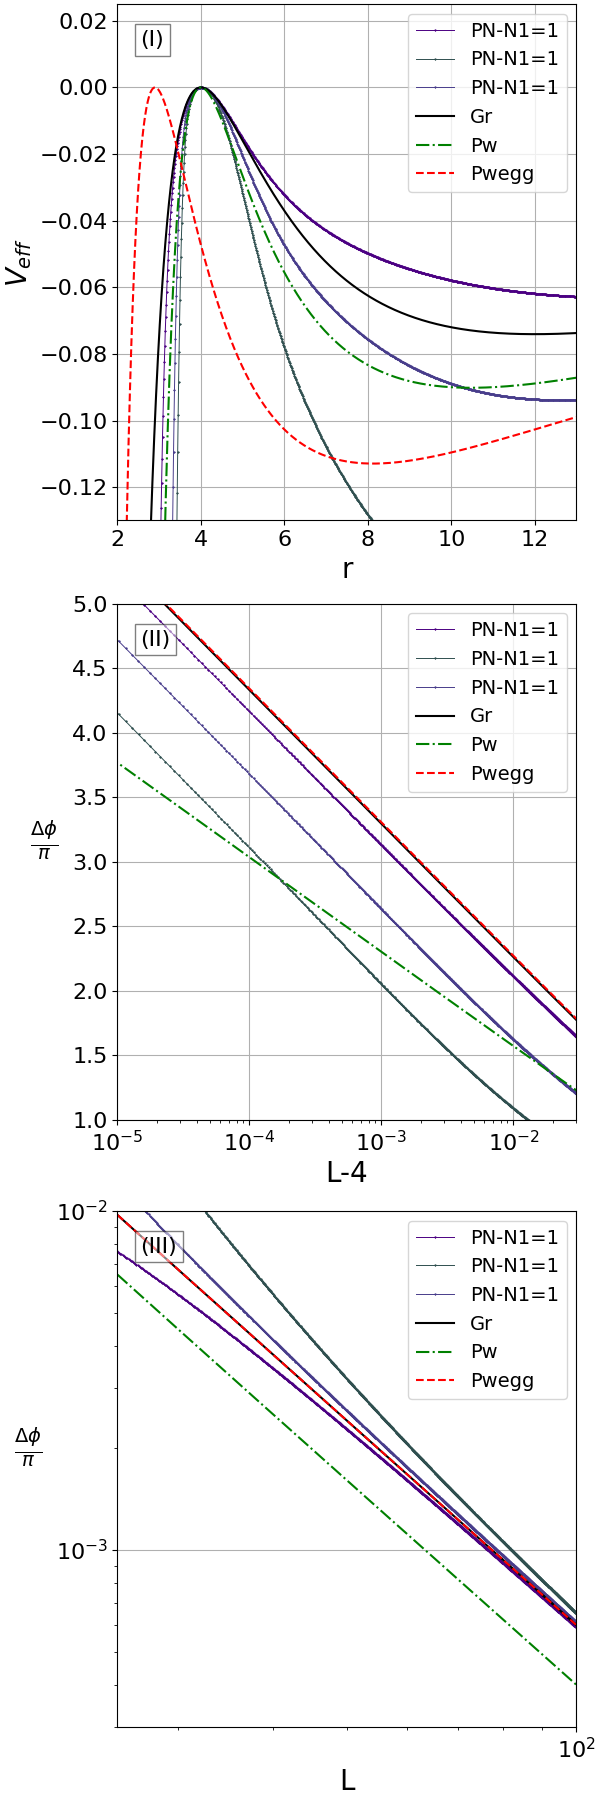
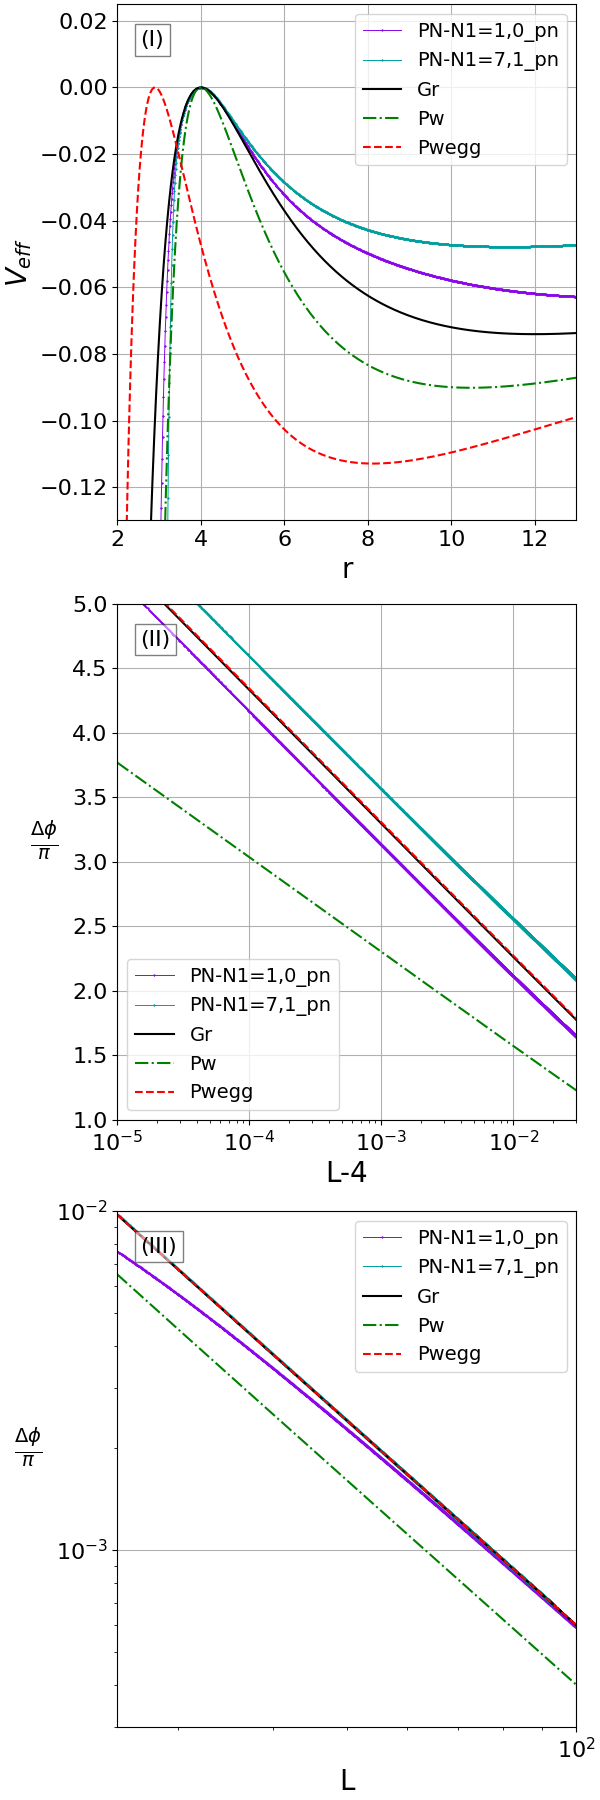
vault backup: 2025-05-25 15:54:07

diff --git a/Code/Plot_functions.py b/Code/Plot_functions.py
@@ -399,18 +399,18 @@ def final_plots(rangelist, auto=False, N1_list=[], rs_list=[], conds_list=[]):
 
 
 
-rangelist = [0.8, 5000, 7001, 7000]
+rangelist = [0.8, 5000, 7000, 7000]
 # final_plots(rangelist,auto=True,N1_list=[1,7],rs_list=[2,2],conds_list=[[0,1,2,4,5,6,7,8,12],[0,1,2,4,5,6,7,8,12]])
 # final_plots(rangelist,auto=True,N1_list=[1,1],rs_list=[2,2],conds_list=[[0,1,4,5,6,7,8,12],[0,1,2,4,5,6,7,8,12]])
-# final_plots(rangelist,auto=True,N1_list=[1,8],rs_list=[2,2],conds_list=[[0,1,4,5,6,7,8,12,13],[0,1,4,5,6,7,8,12,13]])
-final_plots(rangelist,auto=True,N1_list=[1,7],rs_list=[2,2],conds_list=[[0,1,4,5,6,7,8,12],[0,1,4,5,6,7,8,12]])
+final_plots(rangelist,auto=True,N1_list=[1,8],rs_list=[2,2],conds_list=[[0,1,2,4,5,6,7,8,12,13],[0,1,2,4,5,6,7,8,12,13]])
+# final_plots(rangelist,auto=True,N1_list=[1,7],rs_list=[2,2],conds_list=[[0,1,4,5,6,7,8,12],[0,1,4,5,6,7,8,12]])
 
 # Calculate coefficients for the specified cases
 N1_list = [1, 9]
 rs_list = [1.5, 1.5]
 conds_list = [
-    [0, 1, 4, 5, 6, 7, 8, 12, 13],
-    [0, 1, 4, 5, 6, 7, 8, 12, 13]
+    [0, 1, 2, 4, 5, 6, 7, 8, 12, 13],
+    [0, 1, 2, 4, 5, 6, 7, 8, 12, 13]
 ]
 
 coefficient_lists = []

diff --git a/Notes/Research Log/Log Entire - 2025__05__25.md b/Notes/Research Log/Log Entire - 2025__05__25.md
@@ -1,7 +1,7 @@
 ---
 
 ---
-
+![C:\Users\itama\Desktop\My Projects\Msc_project_2025\Code\Plots\Figure2_paper.png](file:///c%3A/Users/itama/Desktop/My%20Projects/Msc_project_2025/Code/Plots/Figure2_paper.png)
 
 title: "Log Entire - 2025__05__25"
 created: "2025__05__25"
@@ -22,8 +22,17 @@ L/sqrt(12) for run 0 is 1.1008919179049041
 E/(-1/9) for run 0 is 0.6548231260713167
 L/sqrt(12) for run 1 is 1.0717282016860146
 E/(-1/9) for run 1 is 0.9926962610428283
-[[]]![C:\Users\itama\Desktop\My Projects\Msc_project_2025\Code\Plots\Temp3_f1.png](file:///c%3A/Users/itama/Desktop/My%20Projects/Msc_project_2025/Code/Plots/Temp3_f1.png)
-
+[C:\Users\itama\Desktop\My Projects\Msc_project_2025\Code\Plots\Temp3_f1.png](file:///c%3A/Users/itama/Desktop/My%20Projects/Msc_project_2025/Code/Plots/Temp3_f1.png)
+[C:\Users\itama\Desktop\My Projects\Msc_project_2025\Code\Plots\Figure2_paper.png](file:///c%3A/Users/itama/Desktop/My%20Projects/Msc_project_2025/Code/Plots/Figure2_paper.png)
+- With adding the additional orbital energy condition:
+L/sqrt(12) for run 0 is 1.0685743503990917
+E/(-1/9) for run 0 is 0.9999999999997082
+L/sqrt(12) for run 1 is 1.0706674190424805
+E/(-1/9) for run 1 is 1.00000000195405
+[C:\Users\itama\Desktop\My Projects\Msc_project_2025\Code\Plots\Adding_Isco_E_cond_1.png](file:///c%3A/Users/itama/Desktop/My%20Projects/Msc_project_2025/Code/Plots/Adding_Isco_E_cond_1.png)
+[C:\Users\itama\Desktop\My Projects\Msc_project_2025\Code\Plots\Figure2_paper.png](file:///c%3A/Users/itama/Desktop/My%20Projects/Msc_project_2025/Code/Plots/Figure2_paper.png)
+- With only the angular momentum condition added:
+- 
 ## Actions Taken
 1. 
 
